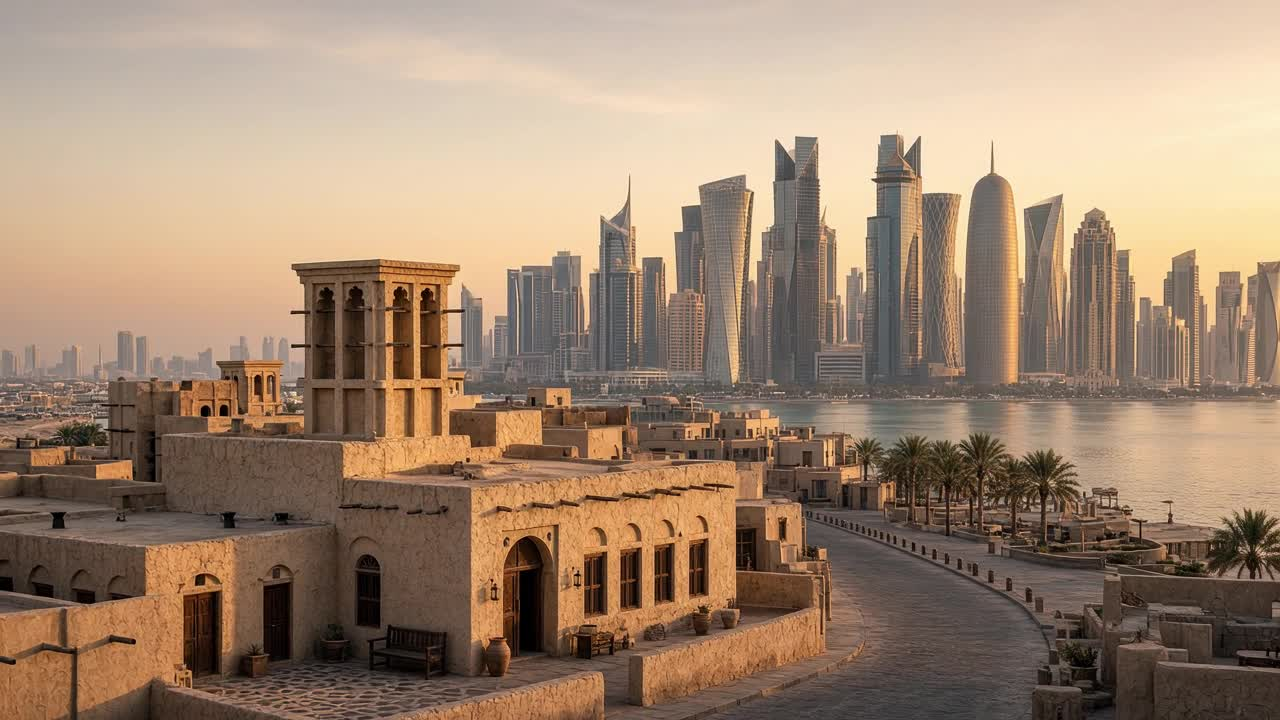
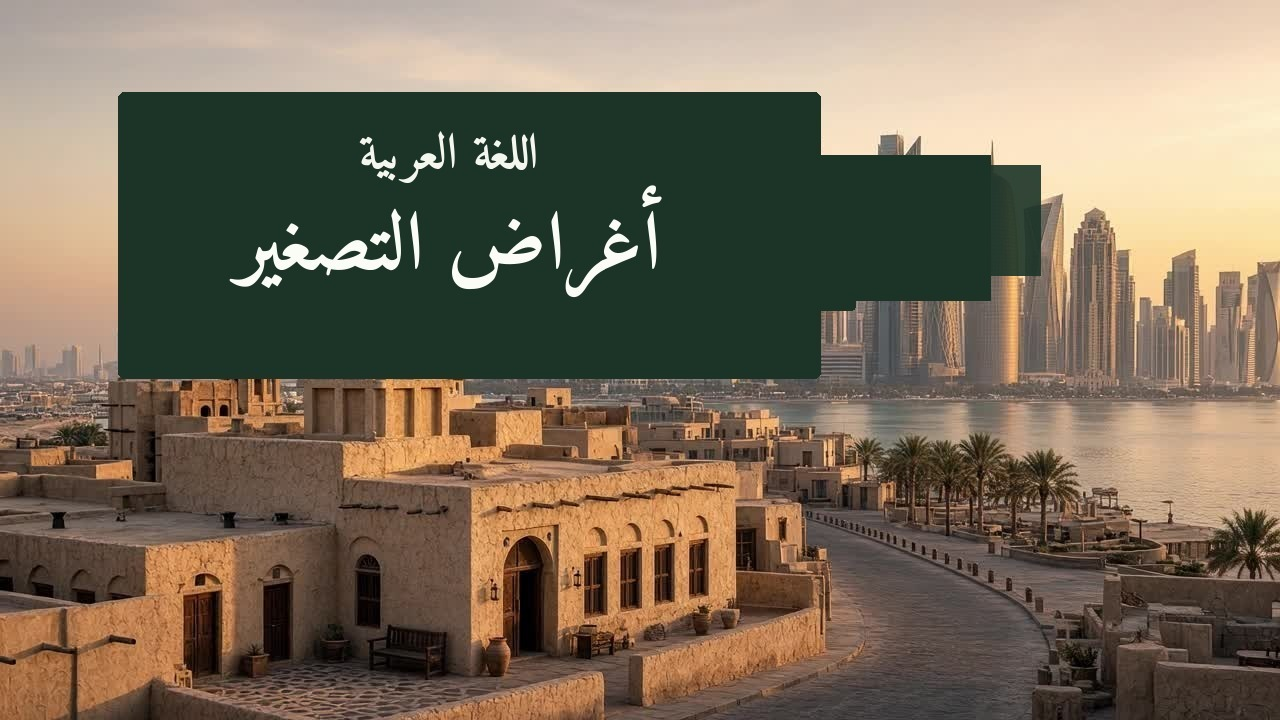
غلاف السبورة: اللغة العربية / أغراض التصغير بخط صحيح

Changed region(s): [[0.0938, 0.1222, 0.8125, 0.55]]

diff --git a/404.html b/404.html
@@ -80,7 +80,7 @@
     <h1>أغراض التصغير</h1>
     <p class="lead">درس تفاعلي: نكتشف أغراض التصغير من السياق، لا من الحجم وحده.</p>
     <div class="stage">
-      <video id="v" poster="media/open.jpg" playsinline webkit-playsinline preload="metadata" controlslist="nodownload">
+      <video id="v" poster="media/open.jpg?v=2" playsinline webkit-playsinline preload="metadata" controlslist="nodownload">
         <source src="media/v-intro.mp4?v=24" type="video/mp4">
       </video>
       <button class="play" id="playbtn" type="button">

diff --git a/index.html b/index.html
@@ -80,7 +80,7 @@
     <h1>أغراض التصغير</h1>
     <p class="lead">درس تفاعلي: نكتشف أغراض التصغير من السياق، لا من الحجم وحده.</p>
     <div class="stage">
-      <video id="v" poster="media/open.jpg" playsinline webkit-playsinline preload="metadata" controlslist="nodownload">
+      <video id="v" poster="media/open.jpg?v=2" playsinline webkit-playsinline preload="metadata" controlslist="nodownload">
         <source src="media/v-intro.mp4?v=24" type="video/mp4">
       </video>
       <button class="play" id="playbtn" type="button">
